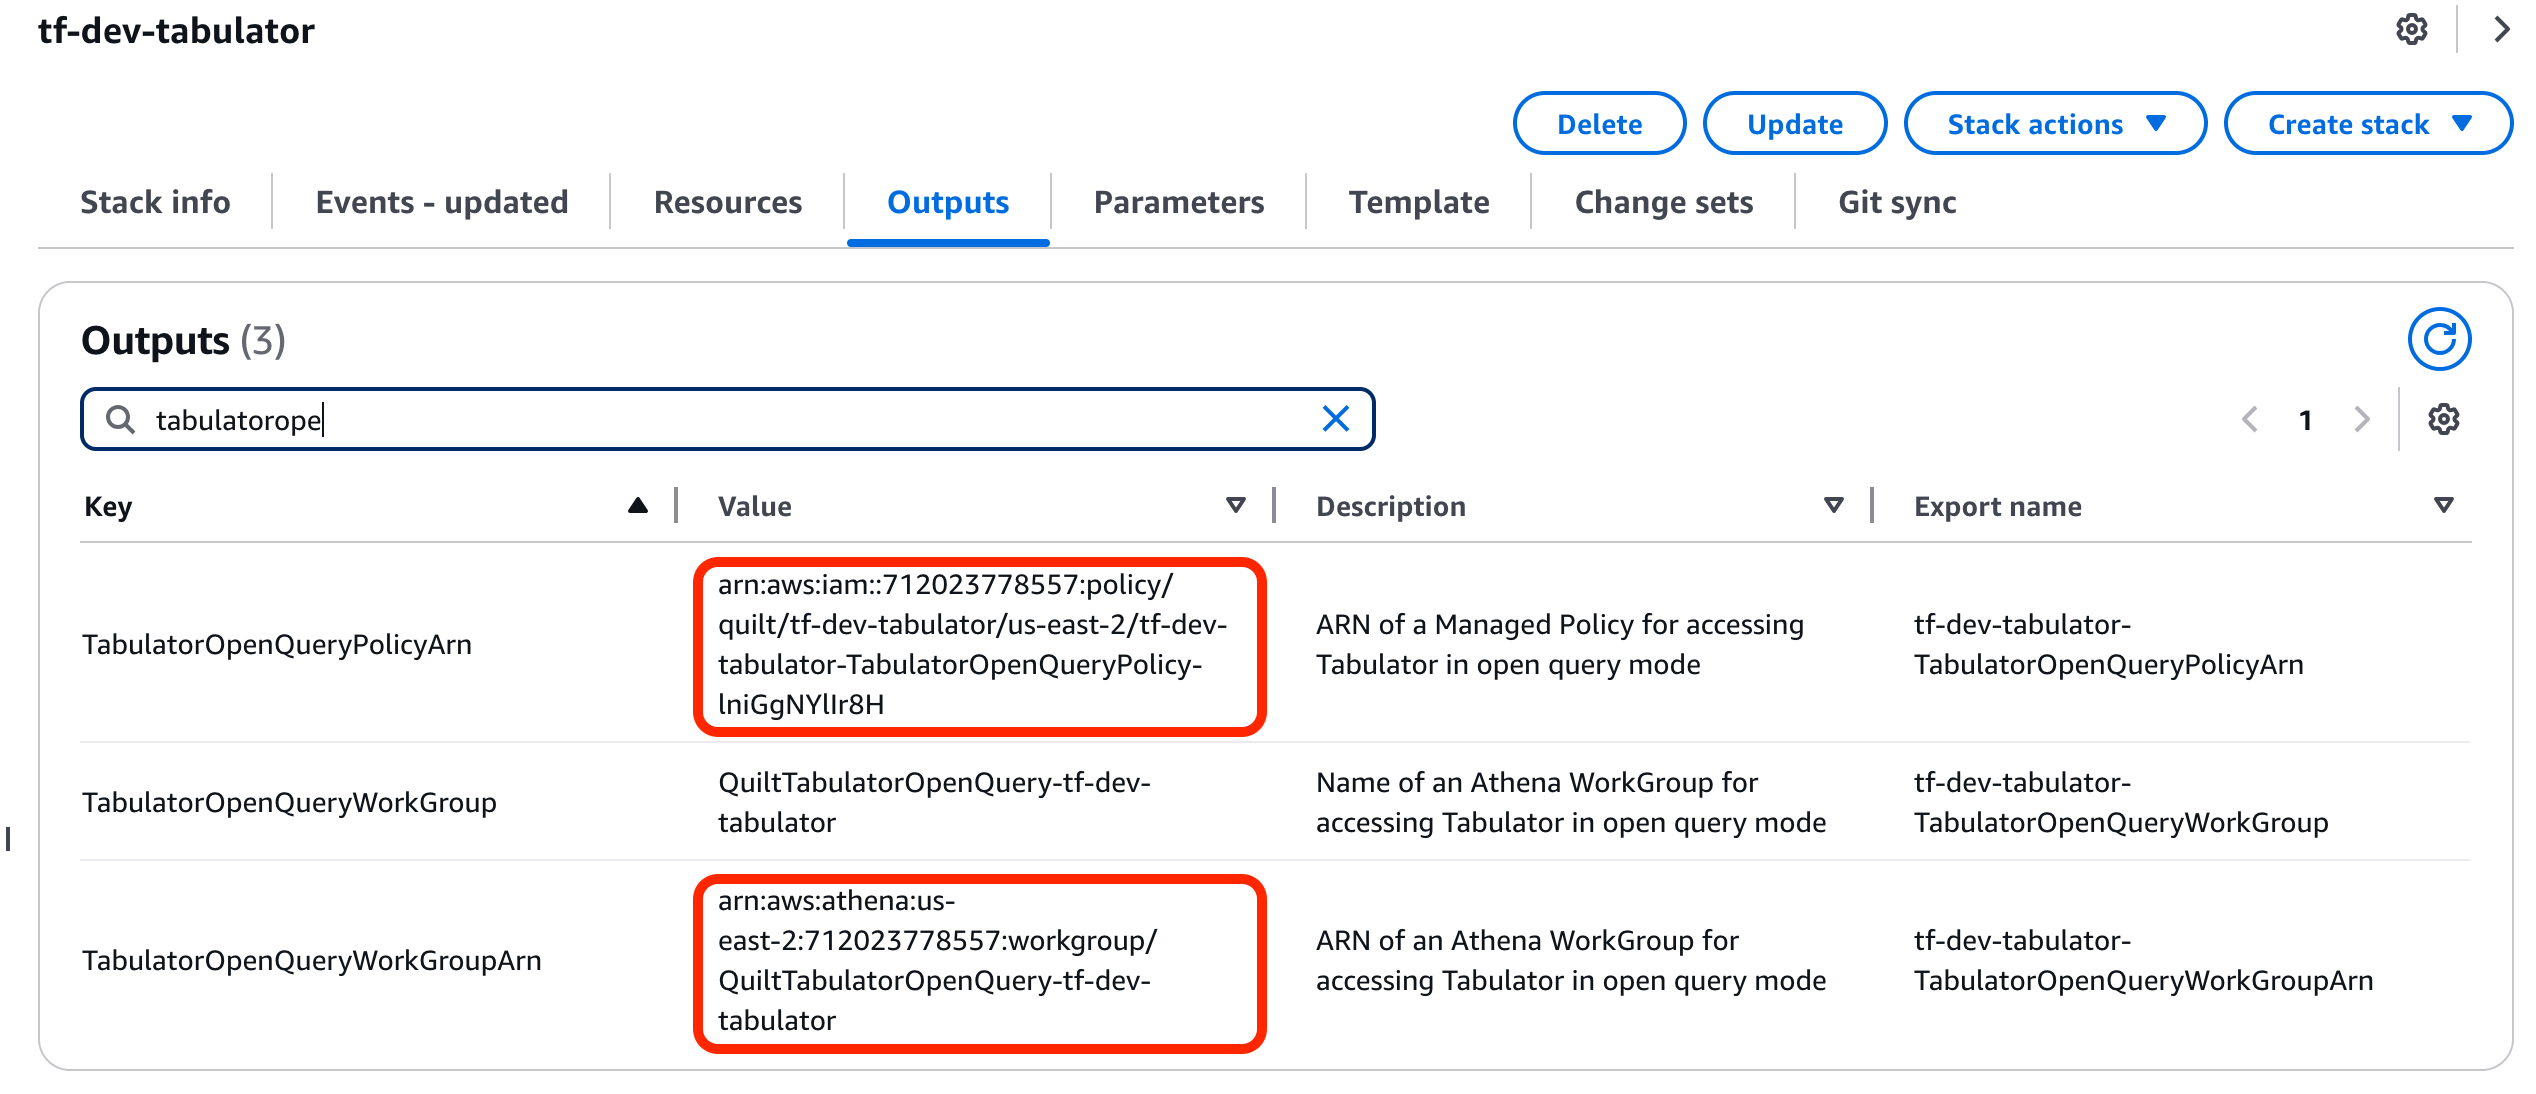
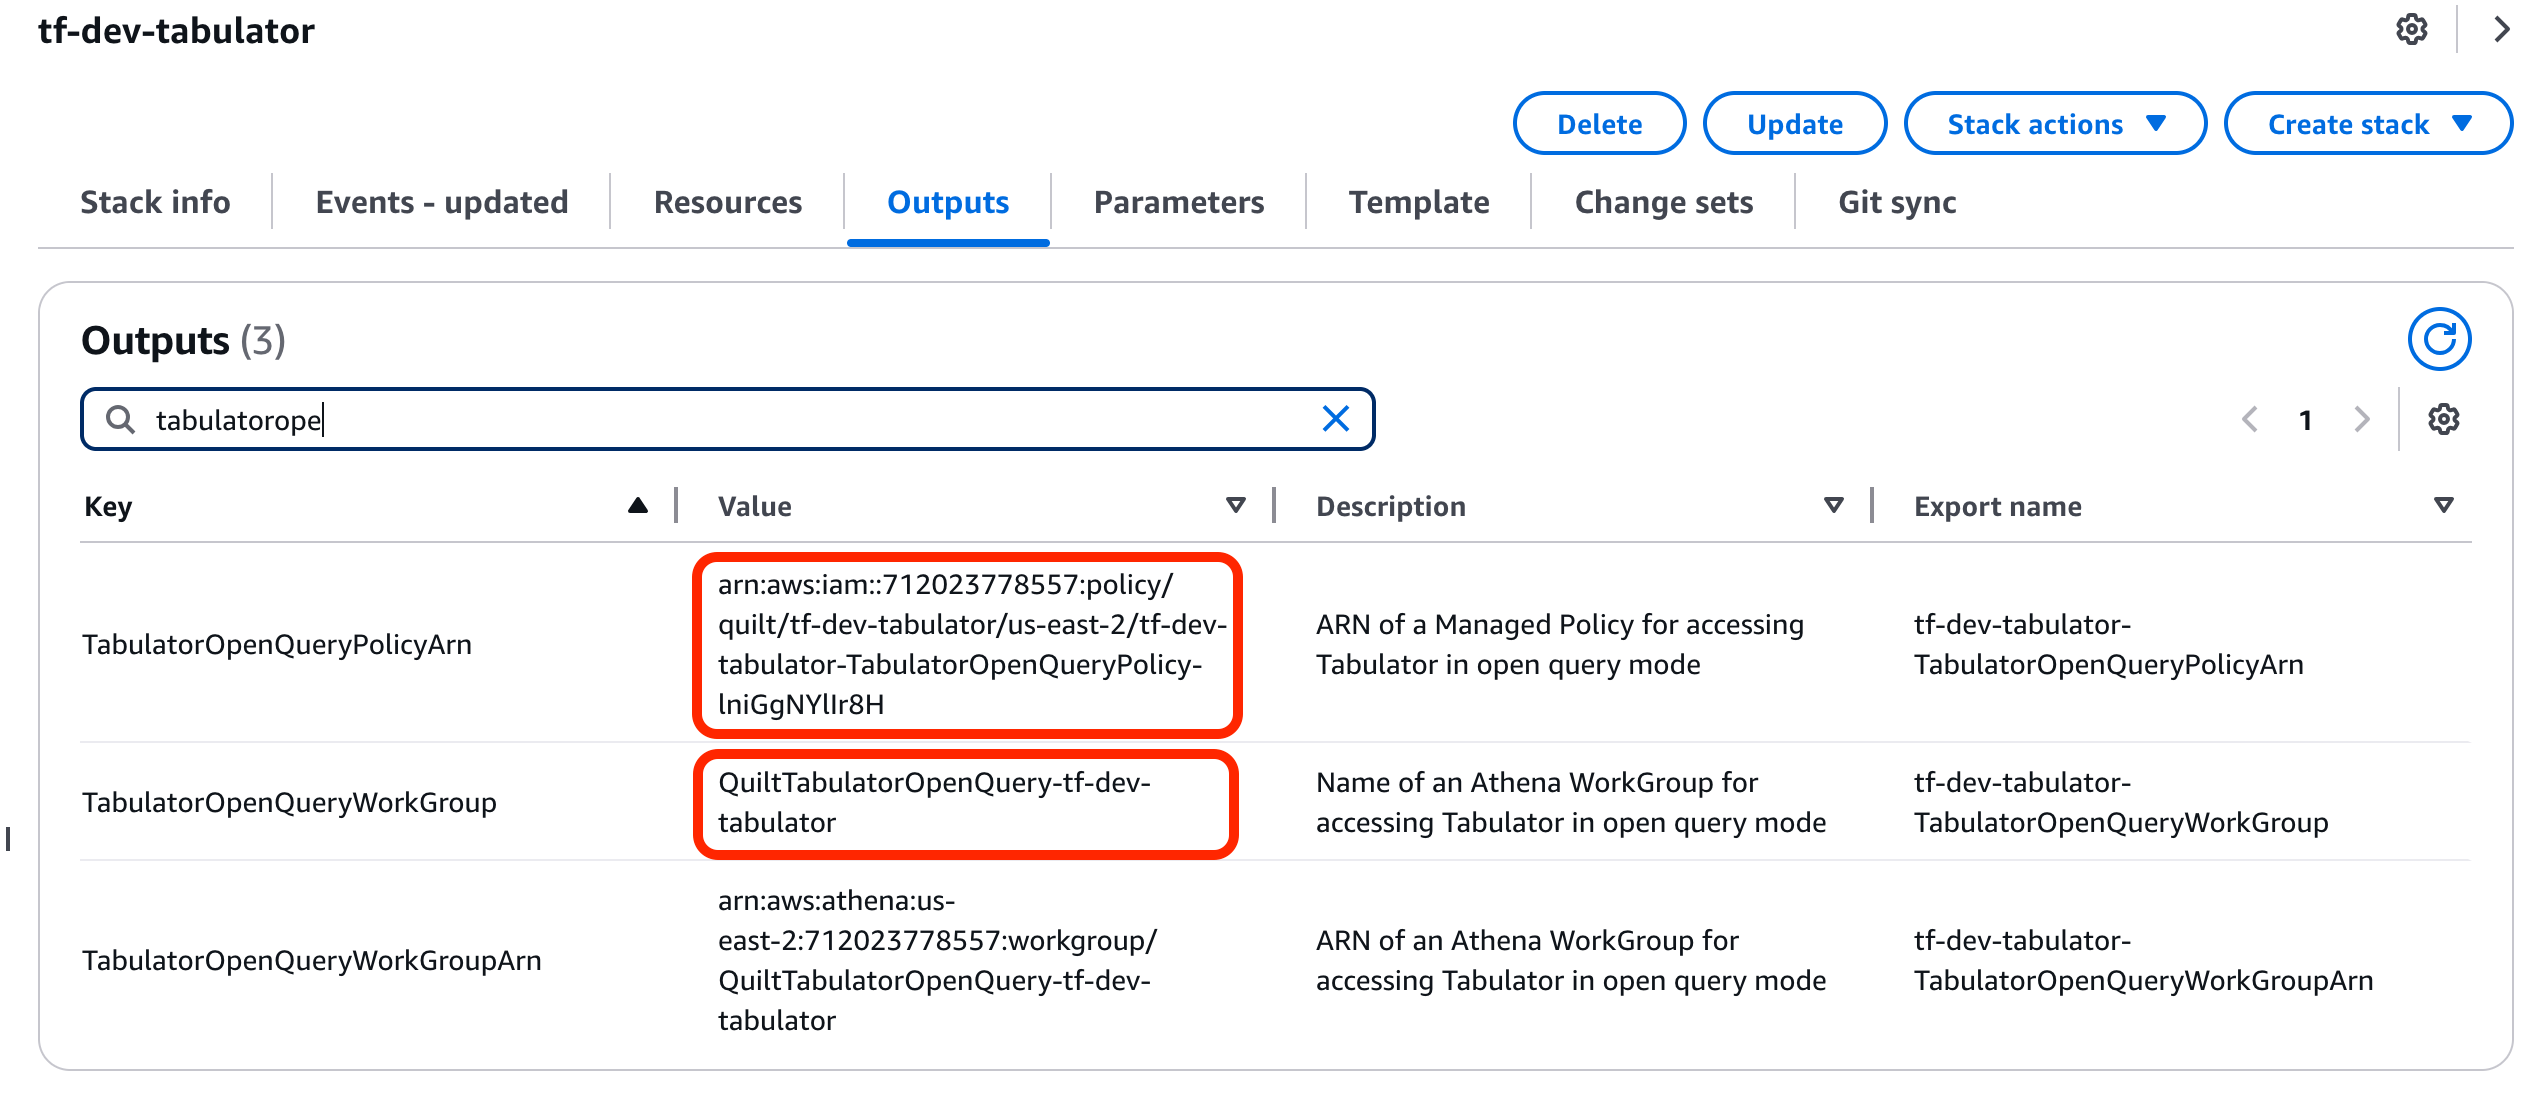
only one ARN neeeded

Changed region(s): [[0.2492, 0.4973, 0.4984, 0.8391], [0.2492, 0.808, 0.4984, 0.9634]]

diff --git a/docs/advanced-features/tabulator.md b/docs/advanced-features/tabulator.md
@@ -222,10 +222,12 @@ Tabulator configuration. This can be done via the Admin UI or the
 
 In order to access Tabulator in open query mode, the caller must use a special
 workgroup, and have permissions to use that workgroup and access tabulator
-resources. Both of these are created by the Quilt stack, and must be added to to
-the new or existing role used by the caller.
+resources. Both of these are created by the Quilt stack, and are available in
+the "Resources" tab.
 
-You can find the ARNs for that workgroup and access policy in the
-Resources tab, then copy them into the relevant IAM role.
+1. Find the ARN for the Tabulator Open Query Policy, then copy that into the
+   relevant IAM role.
+2. Find the name of the Tabulator Open Query Workgroup, and configure your
+   Athena client or connector to use that workgroup.
 
 ![Tabulator Resources](../imgs/admin-tabulator-resources.png)
